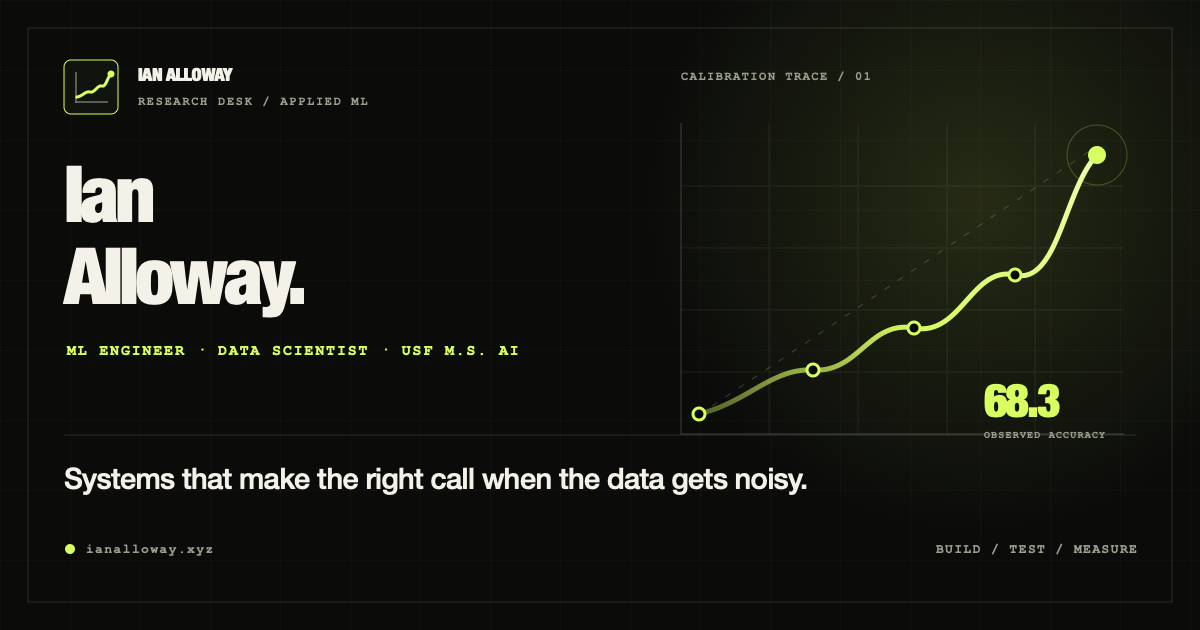
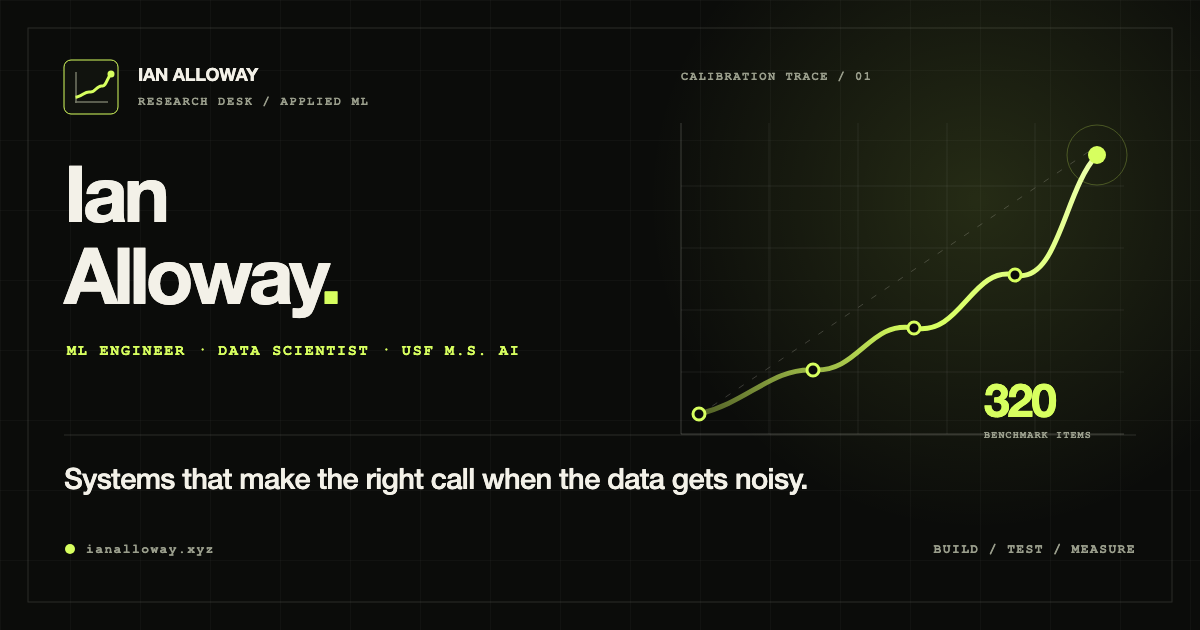
content: refresh the home and Hire Me figures (#253)
* content: refresh the home and Hire Me figures

Replace the older headline figures with ones backed by public work: the
SpendAudit benchmark and the two PyPI packages on Hire Me, and a "Live"
marker for AI Advantage on the home page. The social card's metric now
shows the SpendAudit item count; its PNG is re-rendered from the SVG.

Claude-Session: https://claude.ai/code/session_018CEjxzS6ve26gQV9eXAtQe

* content: re-render the social card PNG from the updated SVG

Claude-Session: https://claude.ai/code/session_018CEjxzS6ve26gQV9eXAtQe

---------

diff --git a/src/pages/HireMe.tsx b/src/pages/HireMe.tsx
@@ -30,8 +30,8 @@ const fitPoints = [
 ];
 
 const outcomes = [
-  { label: '40%', detail: 'client efficiency improvement through analytics and automation work' },
-  { label: '30%', detail: 'fraud reduction support from anomaly detection and blockchain analytics work' },
+  { label: '320', detail: 'item SpendAudit benchmark, published with every model response and a one-command recount' },
+  { label: '2', detail: 'Python packages on PyPI, solvent-agent and juryrig, each with CI and tests' },
   { label: '4', detail: 'flagship public projects that show modeling, evaluation, deployment, and tooling' },
   { label: 'Now', detail: 'B.S. Information Science completed; M.S. in AI in progress at USF' },
 ];

diff --git a/src/pages/Index.tsx b/src/pages/Index.tsx
@@ -48,8 +48,8 @@ const PROJECTS: Project[] = [
     description:
       "Live sports decision desk: model-backed picks, Kelly sizing, portfolio risk, and closing-line evaluation—shipped as a real product surface.",
     proof: "Built on nba-ratings (PyPI: nba-edge), kelly-js, and the sports-betting-ml training stack.",
-    metric: "68.3%",
-    metricLabel: "recorded model accuracy",
+    metric: "Live",
+    metricLabel: "deployed decision desk",
     visual: "sports",
     code: "https://github.com/ianalloway/ai-advantage",
     live: "https://aiadvantagesports.com",
